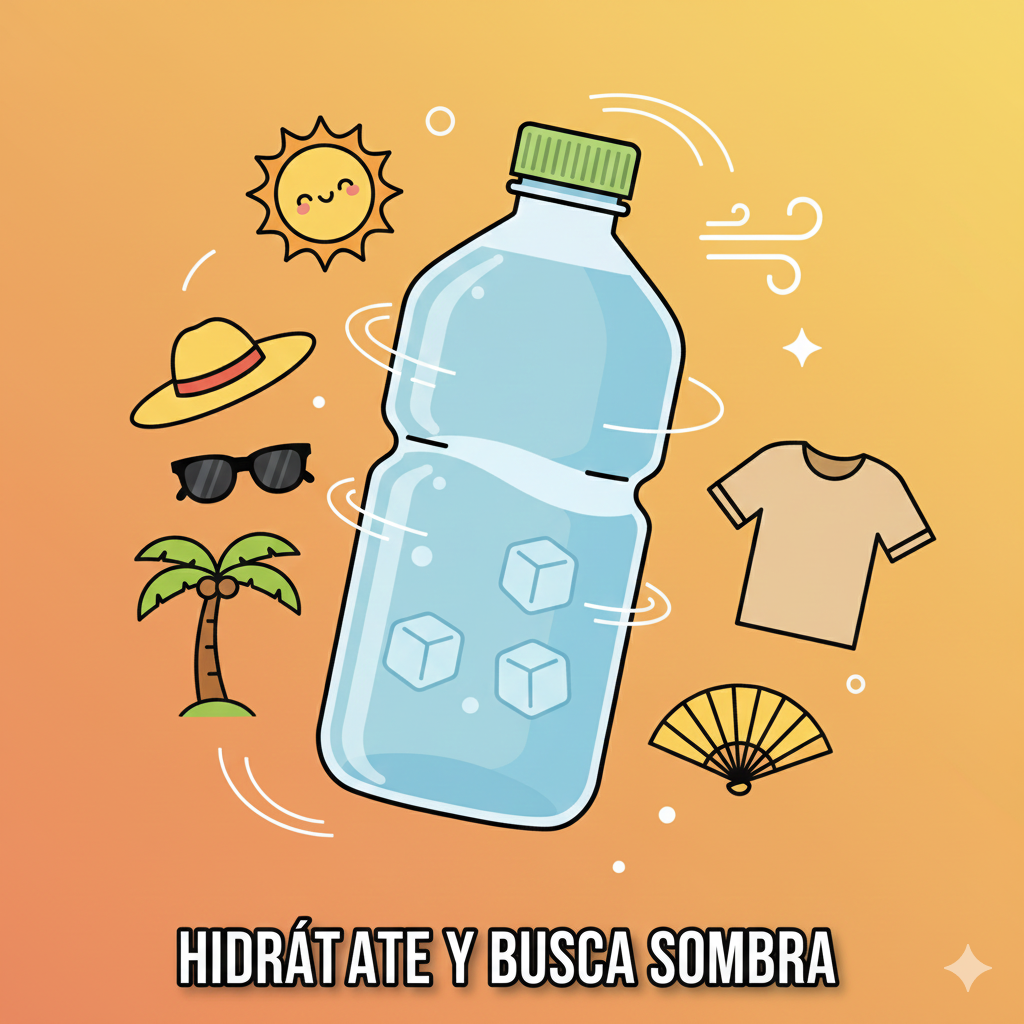
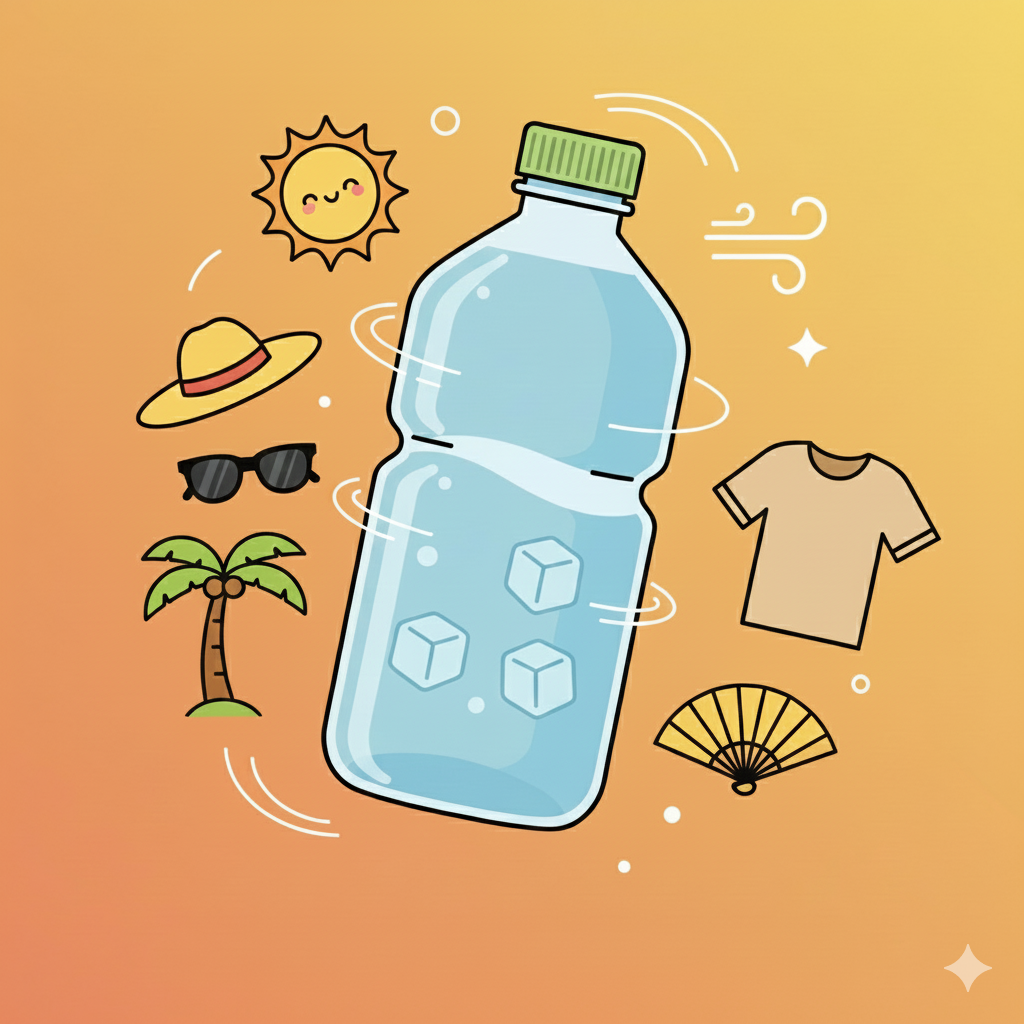
Ajustes

diff --git a/src/dashboard/ui/cards.py b/src/dashboard/ui/cards.py
@@ -30,22 +30,22 @@ def obtener_icono_tiempo(lluvia, tmin, tmax, nubes):
 def obtener_consejo(tmin, tmax, lluvia):
     # 1. Prioridad absoluta: Lluvia
     if lluvia == 1: 
-        return "Lloverá. Lleva paraguas.", "lleva_paraguas.png"
+        return "llevate un paraguas", "lleva_paraguas.png"
     
     # 2. Frío por la mañana o por la tarde , horas extremas, sea alumno de mañana o de tarde. 
     if tmin < 8: 
-        return "Mañana y tarde fría. Abrígate bien.", "abrigate.png"
+        return " Hace frio, abrígate bien.", "abrigate.png"
     
     # 3. Si va ha hacer fresco , igual mañana o tarde avisamos de la chaqueta.
     if tmin < 18:
-        return "Día fresco. No olvides una chaqueta.", "fresco.png"
+        return "Día fresco. No olvides ponerte una chaqueta o sudadera.", "fresco.png"
 
     # 4. Si va ha hacer Calor avisamos de hidratación
     if tmax > 28: 
-        return "Mucho calor. Hidrátate y busca sombra.", "botella_de_agua.png"
+        return "Hidratate y vete por la sombra", "botella_de_agua.png"
             
     # 5. Buen tiempo
-    return "Día agradable.", "dia_agradable.png"
+    return "Hace un dia genial", "dia_agradable.png"
 
 def generar_grid_html(df, p_tmax, p_tmin, p_rain, base_path):
     """
